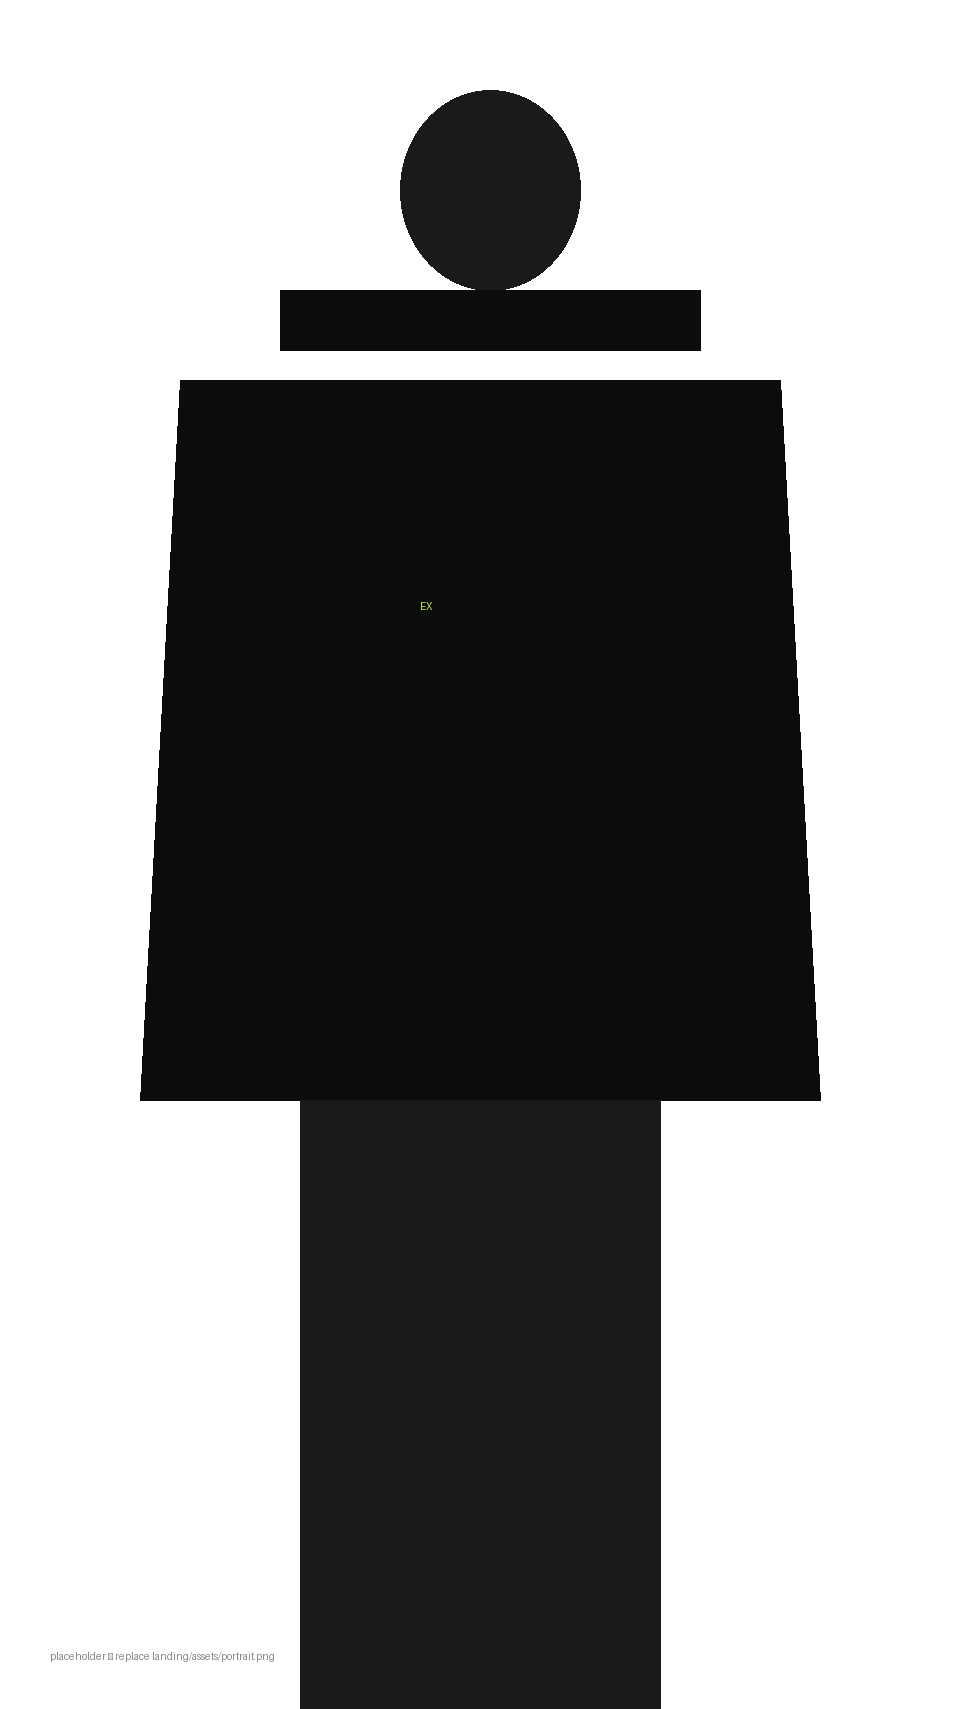
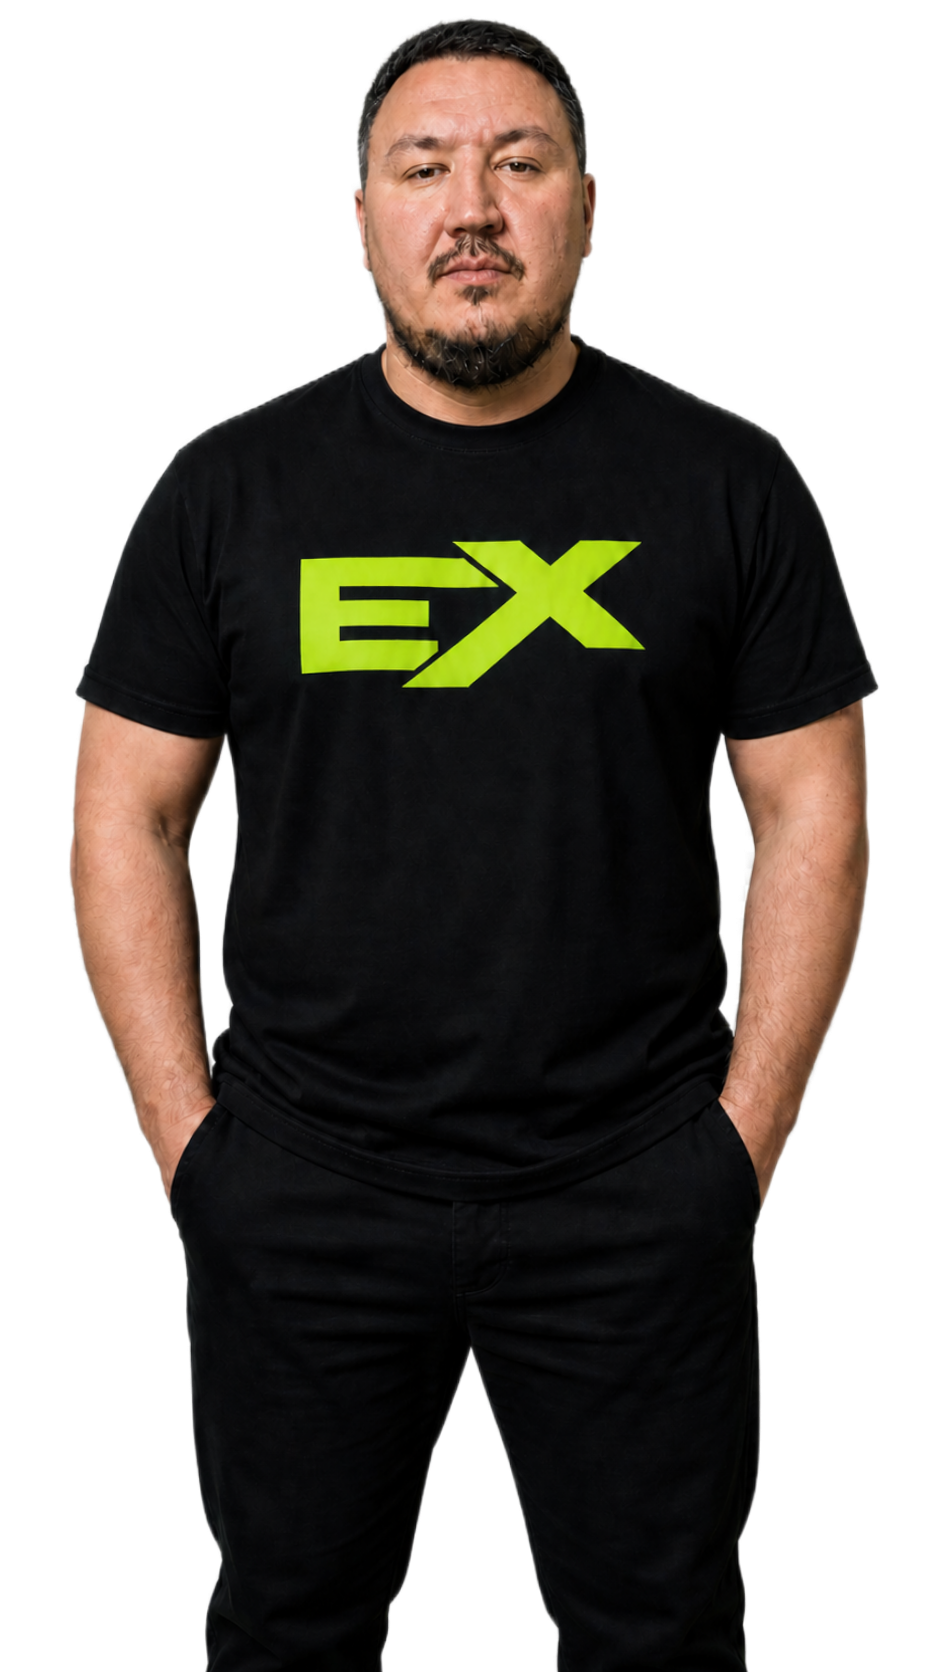
landing: real portrait with bottom-clip overflow в about-секции

Changed region(s): [[0.0616, 0.0, 0.9245, 1.0], [0.3082, 0.311, 0.678, 0.4354]]

diff --git a/landing/index.html b/landing/index.html
@@ -737,9 +737,9 @@ h1.hero-title {
 }
 .about {
   display: grid;
-  grid-template-columns: minmax(0, 1.2fr) minmax(0, 1fr) minmax(0, 320px);
+  grid-template-columns: minmax(0, 1.2fr) minmax(0, 1fr) minmax(0, 340px);
   gap: 48px;
-  align-items: end;
+  align-items: start;
   position: relative;
   z-index: 2;
 }
@@ -750,14 +750,18 @@ h1.hero-title {
 @media (max-width: 980px) { .about { grid-template-columns: 1fr; gap: 36px; align-items: start; } }
 .about-portrait {
   position: relative;
-  align-self: end;
-  margin-bottom: -1px;
-  margin-top: -64px;
+  align-self: stretch;
+  display: flex;
+  align-items: flex-end;
+  justify-content: flex-end;
+  min-height: 540px;
 }
 .about-portrait img {
   width: 100%;
+  max-width: 360px;
   height: auto;
   display: block;
+  margin-bottom: -64px;
   user-select: none;
   pointer-events: none;
   filter: contrast(1.02) saturate(1.05);
@@ -766,9 +770,10 @@ h1.hero-title {
   content: "";
   position: absolute;
   left: 0; right: 0; bottom: 0;
-  height: 80px;
-  background: linear-gradient(180deg, transparent 0%, var(--paper) 92%);
+  height: 1px;
+  background: var(--line);
   pointer-events: none;
+  z-index: 4;
 }
 .about-portrait .badge {
   position: absolute;
@@ -1466,7 +1471,11 @@ footer.foot {
         <img src="assets/portrait.png" alt="Vediota" loading="lazy">
       </div>
     </div>
+  </div>
+</section>
 
+<section class="section">
+  <div class="wrap">
     <div class="projects reveal">
       <a href="https://github.com/vediota-coder/shorts-cutter" target="_blank" rel="noopener" class="project-card">
         <div class="role">этот проект</div>